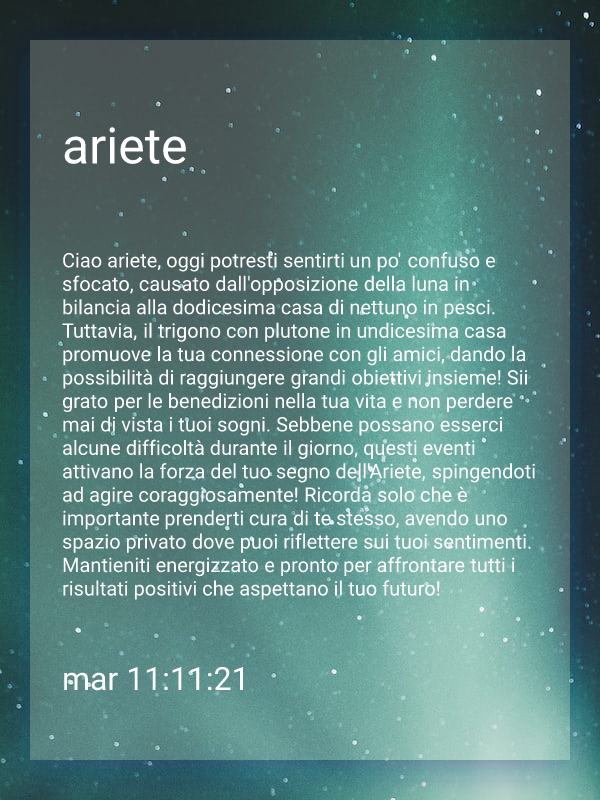
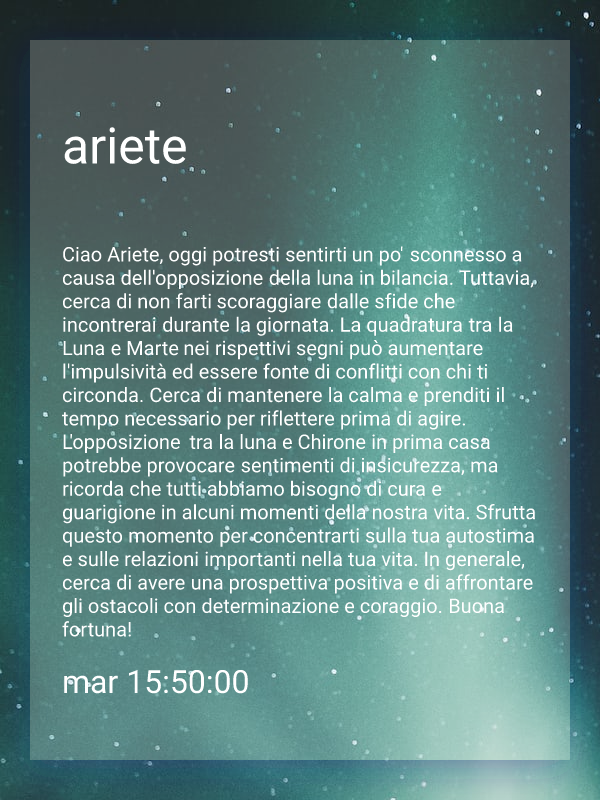
cron implementation

Changed region(s): [[0.09, 0.3125, 0.9, 0.8125], [0.21, 0.8125, 0.42, 0.875], [0.12, 0.8438, 0.18, 0.875]]

diff --git a/horoscopes/getHoroscopes.js b/horoscopes/getHoroscopes.js
@@ -19,7 +19,7 @@ import { getPrompts } from "./horoscope-lib/getPrompts.js";
              },
            });
          const output = [];
-         for (const prompt of prompts) {
+         for (const prompt of testPrompt) {
            console.log("PARTITO!!!");
            // const fullPrompt = `Per il segno zodiacale ${rompt.sign} questi gli aspetti di oggi: ${prompt.moonPrompts}. Basandoti sul significato di questi aspetti, scrivi un oroscopo del giorno, in italiano impeccabile senza errori grammaticali, che sia spiritoso  e originale, come quelli che si trovano su riviste e quotidiani. Non superare le 170 parole. Tieni presente che se in un aspetto c'è opposizione o quadratura, anche la congiunzione e il trigono sono negativi (es. luna congiunzione giove, ma con luna o giove in opposizione al segno, è aspetto totalmente negativo). Sii onesto ma incoraggiante.`;
            const fullPrompt = `Per il segno zodiacale ${prompt.sign} questi gli aspetti di oggi: ${prompt.moonPrompts}. Scrivi un oroscopo del giorno, brillante e originale, in italiano impeccabile senza errori grammaticali. Se un aspetto presenta un'opposizione o una quadratura, anche la congiunzione e il trigono associati sono considerati negativi. Per favore, evita di presentare gli aspetti positivi come tali se il segno è in opposizione o quadratura rispetto a un pianeta coinvolto. Sii onesto e preciso, ma incoraggiante. non superare le 170 parole ` 

diff --git a/cron.js b/cron.js
@@ -1,9 +1,11 @@
 import cron from 'node-cron'
+import { generateAllImages } from './cards/generateAllImages.js'
+import { cronGetHoroscopesAndSaveToDB } from './cronHoroscopes.js'
+
+console.log('cron started')
 
 
-
-
-cron.schedule('* * * * *', ()=>console.log('funxia', new Date().toDateString))
+cron.schedule('15 14 * * *', ()=> cronGetHoroscopesAndSaveToDB(4))
 
 
 

diff --git a/cards/generateSingleImage.js b/cards/generateSingleImage.js
@@ -9,13 +9,13 @@ import { getItalianTimestamp } from "../helpers/dates.js";
 import {generateTemplate,} from './template.js'
 dotenv.config()
 
-const timestamp = getItalianTimestamp()
 
 
 
 
 
 export async function generateSingleImage(sign, horoscope){
+    const timestamp = getItalianTimestamp()
     
   
     
